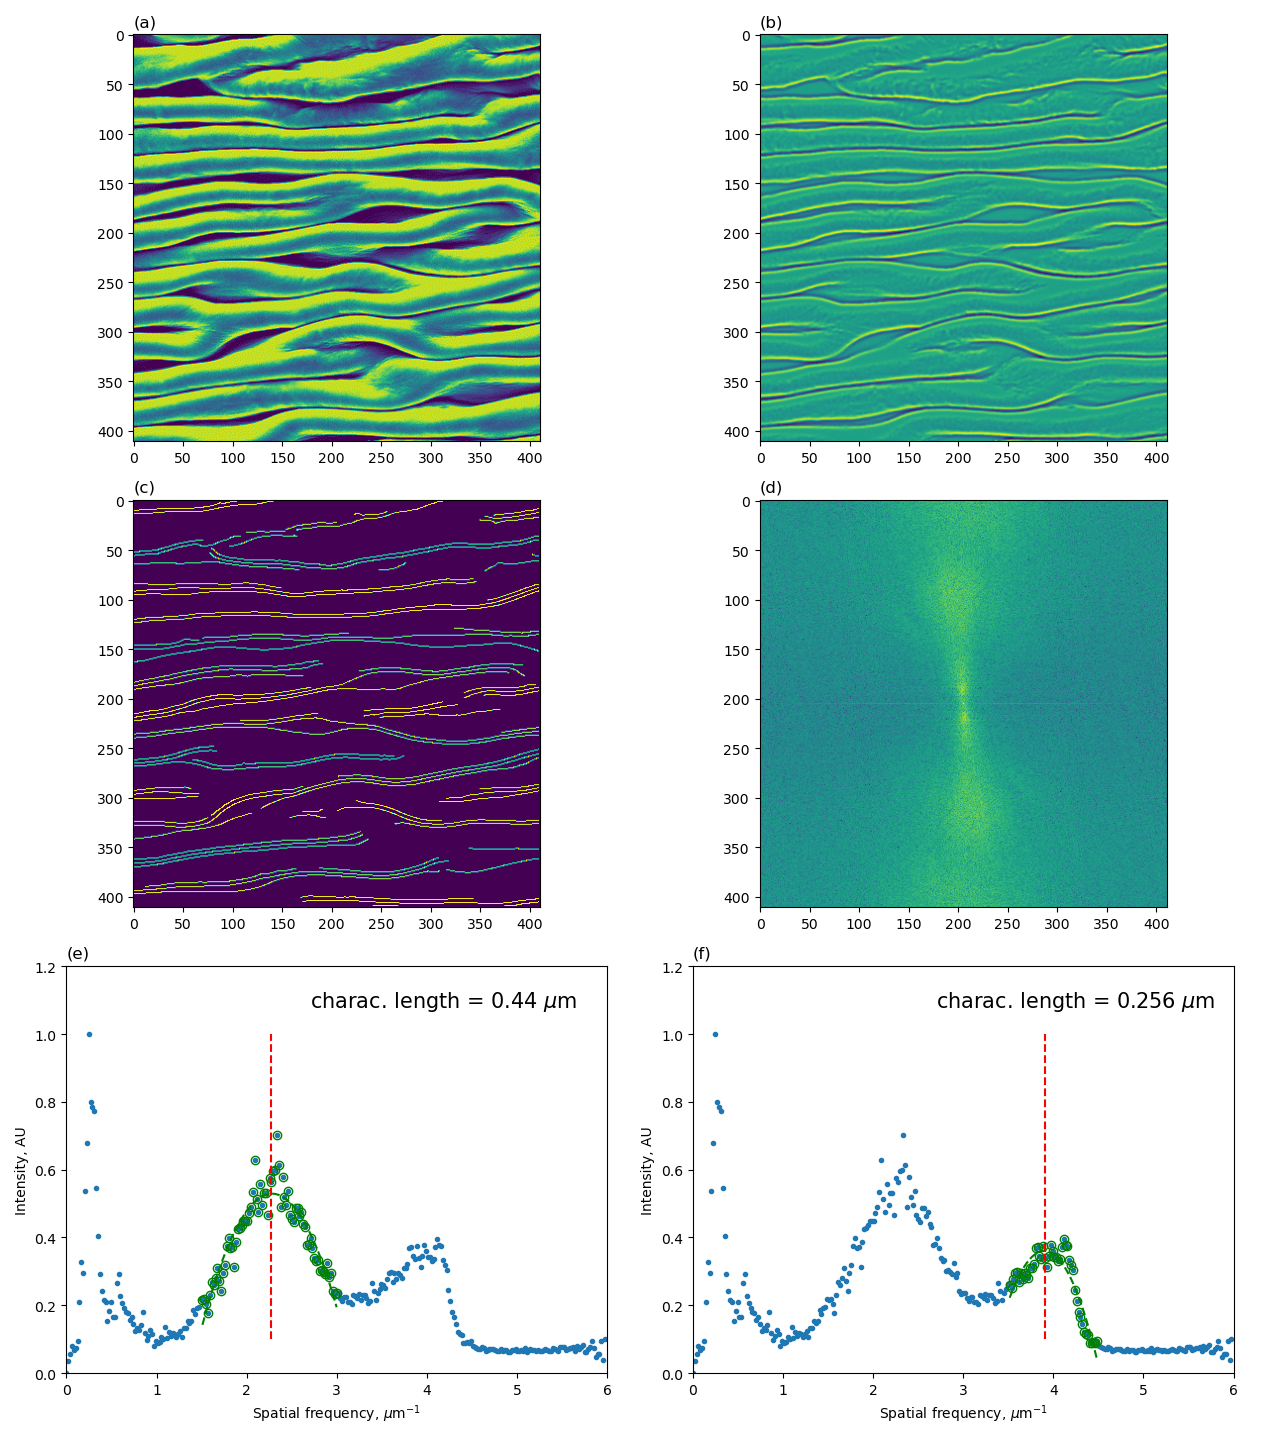
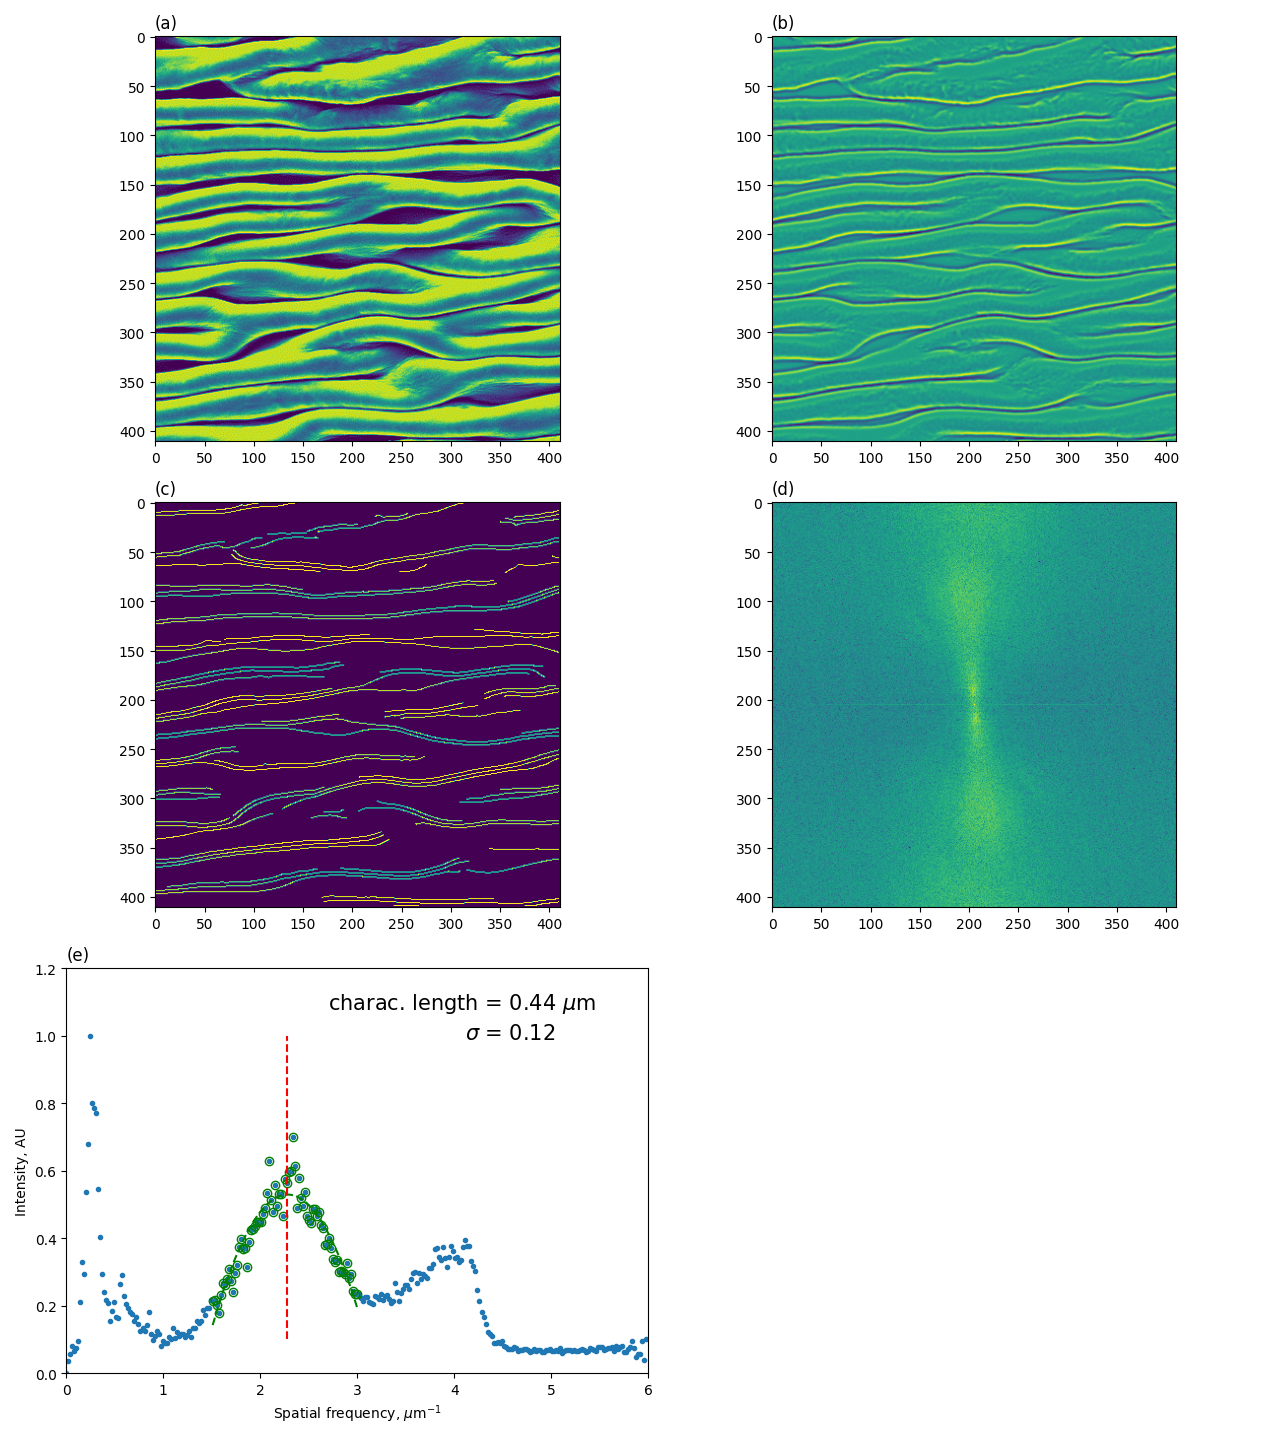
added std calc and annotation on summary plot

diff --git a/test_cases/experimental_surface_images/cnc-poegma_uniaxial_nanowrinkled/src/characteristic_length.py b/test_cases/experimental_surface_images/cnc-poegma_uniaxial_nanowrinkled/src/characteristic_length.py
@@ -125,10 +125,11 @@ fft2_shiftd = np.fft.fftshift(fft2)
 # power spectral density (PSD)
 psd2D = np.abs(fft2_shiftd)**2
 # angle limits for radial averaging the 2D PSD
-theta_lims = []
+# THETA_LIM = [45, 135]
+THETA_LIM = []
 
 # radially averaged PSD with angle limits
-rasp, bins_count = radially_averaged_PSD(psd2D, theta_lims=[])
+rasp, bins_count = radially_averaged_PSD(psd2D, theta_lims=THETA_LIM)
 # length of rasp vector
 rasp_length = len(rasp)
 
@@ -149,24 +150,30 @@ rasp_norm_au = rasp_norm/np.max(rasp_norm)
 # curve fit
 # population 1
 ind = np.where(np.logical_and((1/lam>LO_LEN_LIM_POP1),(1/lam<HI_LEN_LIM_POP1)))
-x_pop1 = 1/lam[ind]              # 1/um
-y_pop1 = rasp_norm_au[ind]       # AU
-deg = 2                     # quadratic poly
-z = np.polyfit(x_pop1,y_pop1,deg)     # polynomial coeff
-p = np.poly1d(z)            # 
+x_pop1 = 1/lam[ind]                 # 1/um
+y_pop1 = rasp_norm_au[ind]          # AU
+mean_pop1 = np.mean(y_pop1)         # mean
+std_pop1 = np.std(y_pop1)           # standard deviation
+
+deg = 2                             # quadratic poly
+z = np.polyfit(x_pop1,y_pop1,deg)   # polynomial coeff
+p = np.poly1d(z)
 mdl_pop1 = p(x_pop1)
-pop1_feature_size = x_pop1[np.where(mdl_pop1 == np.max(mdl_pop1))]      # 1/um
+pop1_feature_size = x_pop1[np.where(mdl_pop1 == np.max(mdl_pop1))]  # 1/um
 
 # population 2
 if int(POP_NUM == 2):
     ind = np.where(np.logical_and((1/lam>LO_LEN_LIM_POP2),(1/lam<HI_LEN_LIM_POP2)))
-    x_pop2 = 1/lam[ind]              # 1/um
-    y_pop2 = rasp_norm_au[ind]       # AU
-    deg = 2                     # quadratic poly
-    z = np.polyfit(x_pop2,y_pop2,deg)     # polynomial coeff
-    p = np.poly1d(z)            # 
+    x_pop2 = 1/lam[ind]                 # 1/um
+    y_pop2 = rasp_norm_au[ind]          # AU
+    mean_pop2 = np.mean(y_pop2)         # mean
+    std_pop2 = np.std(y_pop2)           # standard deviation
+
+    deg = 2                             # quadratic poly
+    z = np.polyfit(x_pop2,y_pop2,deg)   # polynomial coeff
+    p = np.poly1d(z)
     mdl_pop2 = p(x_pop2)
-    pop2_feature_size = x_pop2[np.where(mdl_pop2 == np.max(mdl_pop2))]      # 1/um
+    pop2_feature_size = x_pop2[np.where(mdl_pop2 == np.max(mdl_pop2))]  # 1/um
 
 #############################################################################################
 # visualization 
@@ -206,6 +213,8 @@ if int(POP_NUM == 2):
     axs[2,0].set_xlabel("Spatial frequency, $\mu$m$^{-1}$")
     axs[2,0].annotate('charac. length = ' + str(np.around(1/pop1_feature_size[0],decimals=3)) + ' $\mu$m',
                     xy=(0.45,0.9), xycoords='axes fraction', fontsize=TEXTFONT)
+    axs[2,0].annotate('$\sigma$ = ' + str(np.around(std_pop1,decimals=3)),
+                    xy=(0.7,0.825), xycoords='axes fraction', fontsize=TEXTFONT)
     axs[2,0].set_xlim([0,6])
     axs[2,0].set_ylim([0,1.2])
 
@@ -218,6 +227,8 @@ if int(POP_NUM == 2):
     axs[2,1].set_xlabel("Spatial frequency, $\mu$m$^{-1}$")
     axs[2,1].annotate('charac. length = ' + str(np.around(1/pop2_feature_size[0],decimals=3)) + ' $\mu$m',
                     xy=(0.45,0.9), xycoords='axes fraction', fontsize=TEXTFONT)
+    axs[2,1].annotate('$\sigma$ = ' + str(np.around(std_pop2,decimals=3)),
+                    xy=(0.7,0.825), xycoords='axes fraction', fontsize=TEXTFONT)
     axs[2,1].set_xlim([0,6])
     axs[2,1].set_ylim([0,1.2])
 else:
@@ -230,6 +241,8 @@ else:
     axs[2,0].set_xlabel("Spatial frequency, $\mu$m$^{-1}$")
     axs[2,0].annotate('charac. length = ' + str(np.around(1/pop1_feature_size[0],decimals=3)) + ' $\mu$m',
                     xy=(0.45,0.9), xycoords='axes fraction', fontsize=TEXTFONT)
+    axs[2,0].annotate('$\sigma$ = ' + str(np.around(std_pop1,decimals=3)),
+                    xy=(0.685,0.825), xycoords='axes fraction', fontsize=TEXTFONT)
     axs[2,0].set_xlim([0,6])
     axs[2,0].set_ylim([0,1.2])
     
